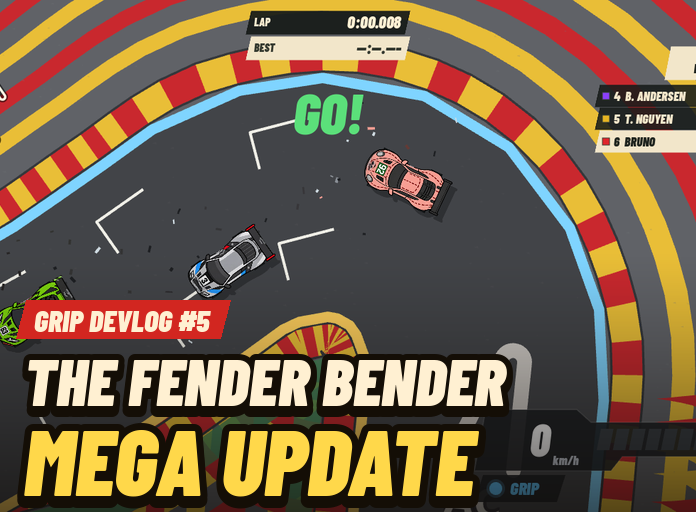
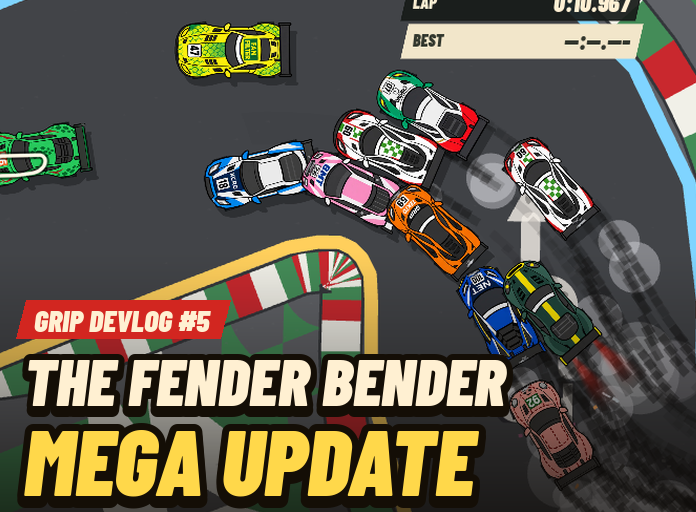
Devlog #5 : de vraies photos de course pour les dégâts et le DNF
- godot/tests/course_photo.tscn : des photos prises en course, sans rien
  poser à la main ; à Parco Reale, le pilote automatique part en fond de
  grille et passe la première chicane avec le peloton (GRIP_AUDACE pour
  freiner plus tard, GRIP_REPERES pour les instants) ; ou pied au
  plancher jusqu'au mur, jusqu'à l'écran DNF (GRIP_CIRCUIT)
- l'image des dégâts : la sortie de la première chicane de Parco Reale,
  puis un DNF contre le mur de pneus de Kangaroo Mountain
- la couverture : le peloton qui s'empile dans la première chicane

Claude-Session: https://claude.ai/code/session_01WCku2F6Jz7QYnAByeRTzna

diff --git a/itch/devlog-5/index.html b/itch/devlog-5/index.html
@@ -76,7 +76,7 @@ La partie copiée est seulement <article id="billet"> : ce qui est autour (le mo
 
 <h2>💥 Bent Metal and Pit Stops</h2>
 <p>Contact now leaves its mark. Bumpers are tough, flanks are soft, and a damaged car loses up to <strong>35% of its top speed and acceleration</strong>, never its grip. Sparks fly, debris stays on the track, smoke pours out, and if you hit a wall head-on at full speed, it's a <strong>DNF</strong>.</p>
-<p><img src="https://brunodrapi.github.io/Slot_car_racing/itch/devlog-5/1-degats.png" alt="Damaged cars and debris on the track, then the DNF screen"></p>
+<p><img src="https://brunodrapi.github.io/Slot_car_racing/itch/devlog-5/1-degats.png" alt="Out of the first chicane at Parco Reale, the pack bumping and smoking, then a DNF against the tyre wall"></p>
 <p>Every circuit now has a pit lane. Tick <strong>PIT</strong> under the lever, stop in your box, and your crew rushes out: tape on the nose, new wheels, and you're back out after 1.5 to 8 seconds, depending on the damage. The AI pits too when it's badly hurt. Damage is an option in the race setup, on by default.</p>
 <p><img src="https://brunodrapi.github.io/Slot_car_racing/itch/devlog-5/2-stand.png" alt="A pit stop: the crew around the car in its box"></p>
 

diff --git a/itch/devlog-5.md b/itch/devlog-5.md
@@ -22,8 +22,8 @@ leur adresse). On colle ensuite dans le corps du billet sur itch.io.
 Images, dans `itch/devlog-5/` (le billet les affiche par leur adresse en recette : ne pas déplacer ce
 dossier), toutes tirées de la version Godot, en anglais :
 
-- `0-couverture.png` (696 × 512, image de couverture du billet) : une course cabossée, et le nom de la mise à jour
-- `1-degats.png` : la tôle et les débris après un choc, puis l'écran DNF
+- `0-couverture.png` (696 × 512, image de couverture du billet) : le peloton qui s'empile dans la première chicane de Parco Reale, et le nom de la mise à jour
+- `1-degats.png` : la sortie de la première chicane de Parco Reale (le peloton qui se touche, fumée et gomme), puis un DNF contre le mur de pneus à Kangaroo Mountain — de vraies courses, `godot/tests/course_photo.tscn`
 - `2-stand.png` : un arrêt au stand, l'équipe autour de la voiture
 - `3-championnat.png` : un championnat au téléphone (départ et calendrier, classement, arrivée finale, podium)
 - `4-pc.png` : les écrans du PC (la préparation de course sur un seul écran, le programme du championnat)
@@ -41,7 +41,7 @@ Cars now crumple, smoke and limp to the pits. You can race full championships. T
 💥 **Bent Metal and Pit Stops**
 Contact now leaves its mark. Bumpers are tough, flanks are soft, and a damaged car loses up to **35% of its top speed and acceleration**, never its grip. Sparks fly, debris stays on the track, smoke pours out, and if you hit a wall head-on at full speed, it's a **DNF**.
 
-*[image : 1-degats.png — Damaged cars and debris on the track, then the DNF screen]*
+*[image : 1-degats.png — Out of the first chicane at Parco Reale, the pack bumping and smoking, then a DNF against the tyre wall]*
 
 Every circuit now has a pit lane. Tick **PIT** under the lever, stop in your box, and your crew rushes out: tape on the nose, new wheels, and you're back out after 1.5 to 8 seconds, depending on the damage. The AI pits too when it's badly hurt. Damage is an option in the race setup, on by default.
 
@@ -111,7 +111,7 @@ Feedback, suggestions and bug reports are always welcome!
 
 <h2>💥 Bent Metal and Pit Stops</h2>
 <p>Contact now leaves its mark. Bumpers are tough, flanks are soft, and a damaged car loses up to <strong>35% of its top speed and acceleration</strong>, never its grip. Sparks fly, debris stays on the track, smoke pours out, and if you hit a wall head-on at full speed, it's a <strong>DNF</strong>.</p>
-<p><img src="https://brunodrapi.github.io/Slot_car_racing/itch/devlog-5/1-degats.png" alt="Damaged cars and debris on the track, then the DNF screen"></p>
+<p><img src="https://brunodrapi.github.io/Slot_car_racing/itch/devlog-5/1-degats.png" alt="Out of the first chicane at Parco Reale, the pack bumping and smoking, then a DNF against the tyre wall"></p>
 <p>Every circuit now has a pit lane. Tick <strong>PIT</strong> under the lever, stop in your box, and your crew rushes out: tape on the nose, new wheels, and you're back out after 1.5 to 8 seconds, depending on the damage. The AI pits too when it's badly hurt. Damage is an option in the race setup, on by default.</p>
 <p><img src="https://brunodrapi.github.io/Slot_car_racing/itch/devlog-5/2-stand.png" alt="A pit stop: the crew around the car in its box"></p>
 
